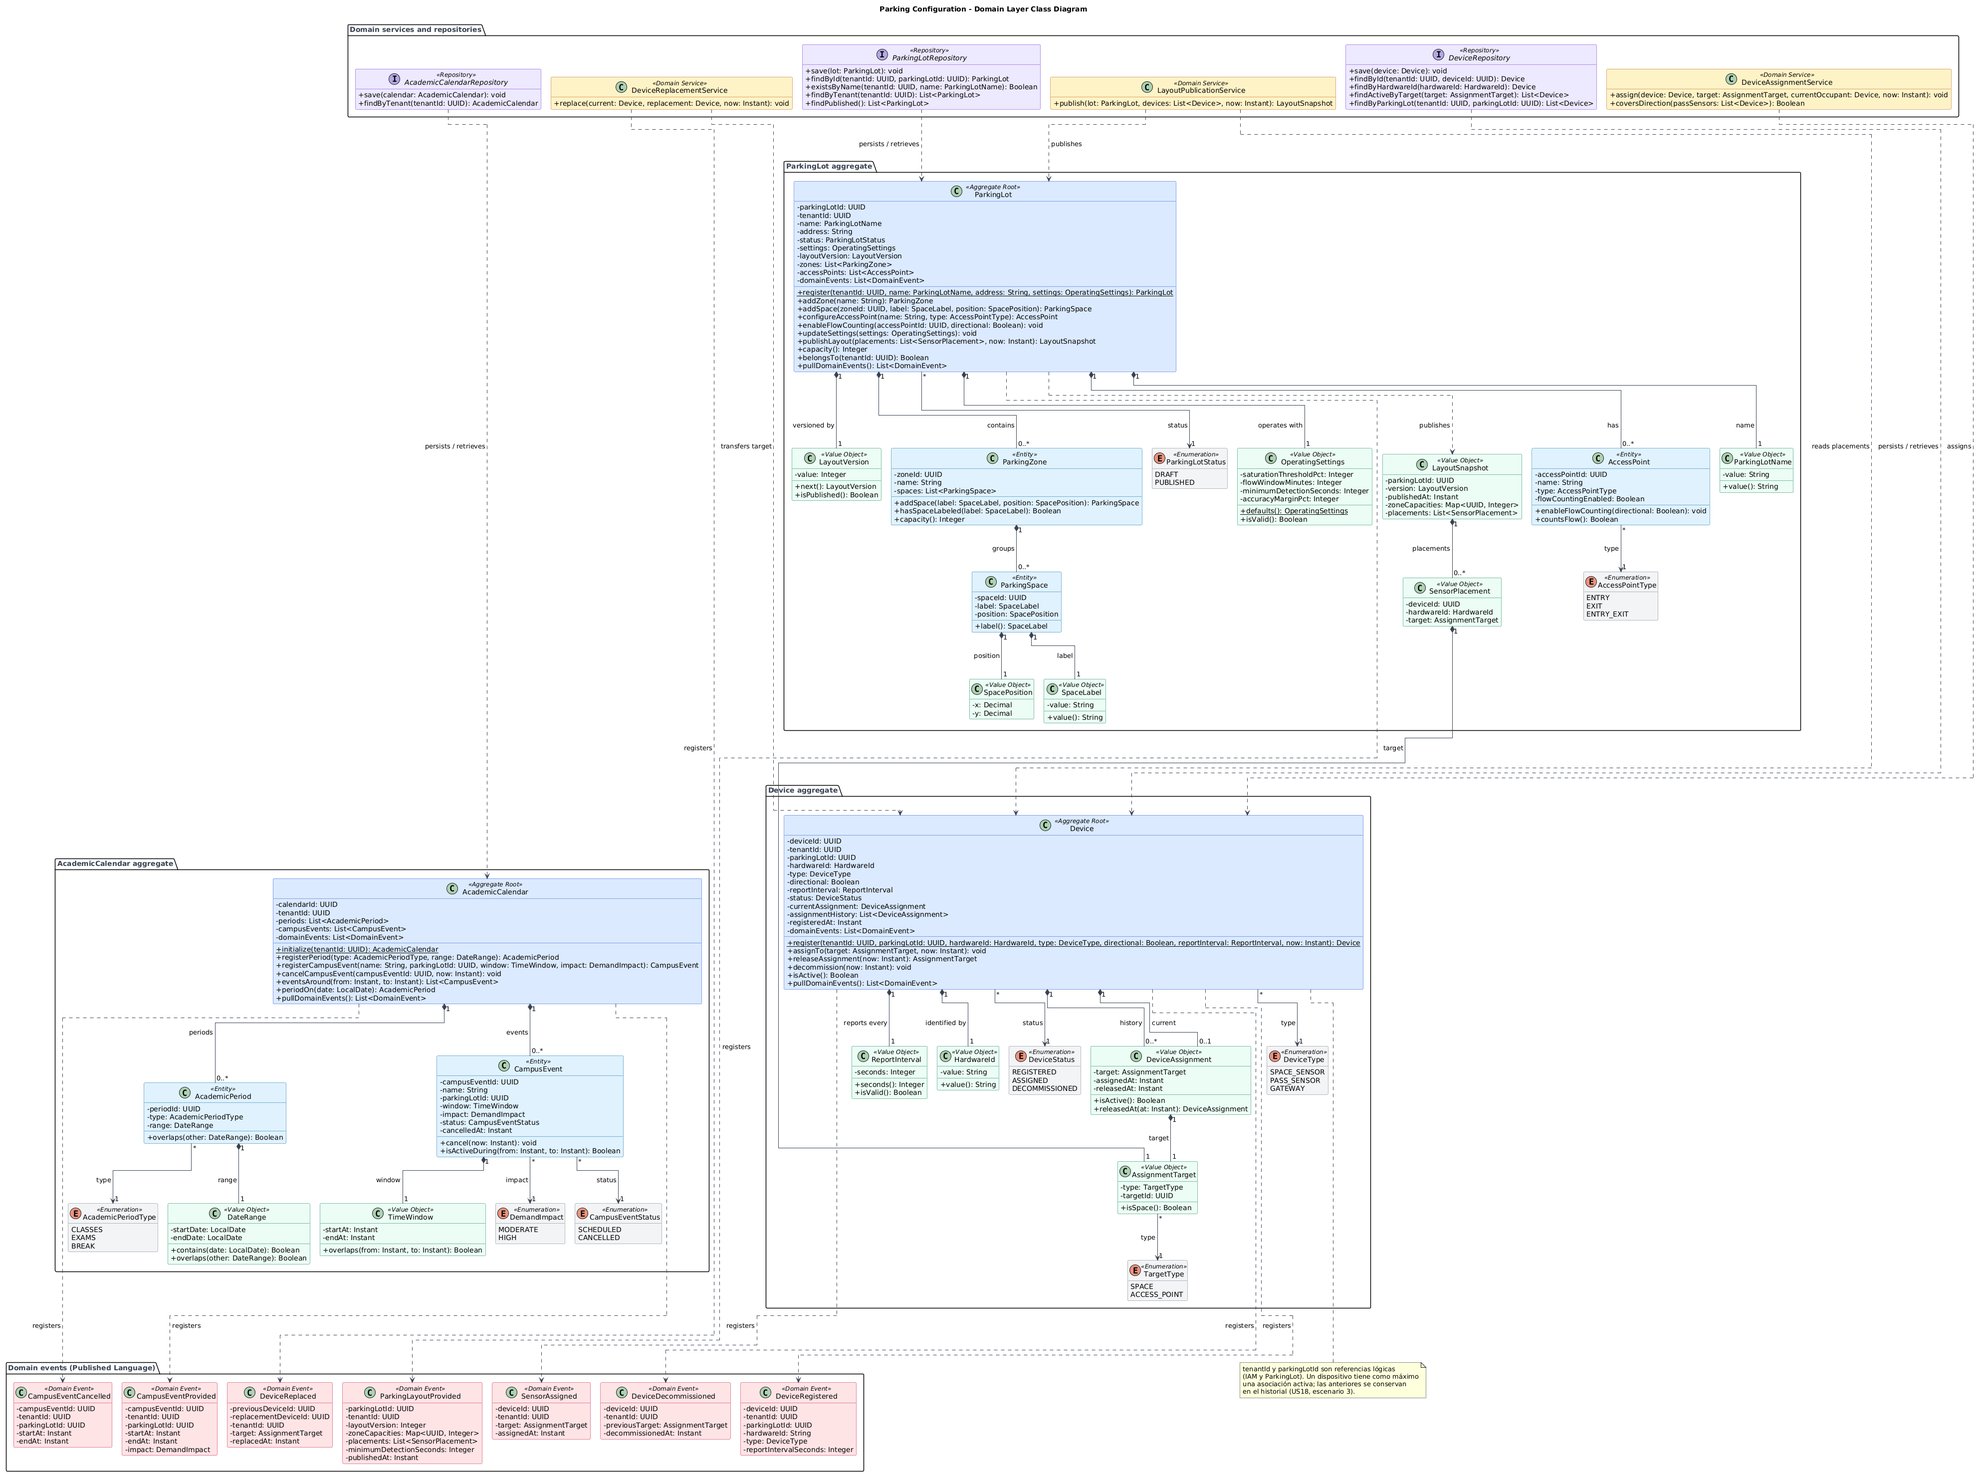
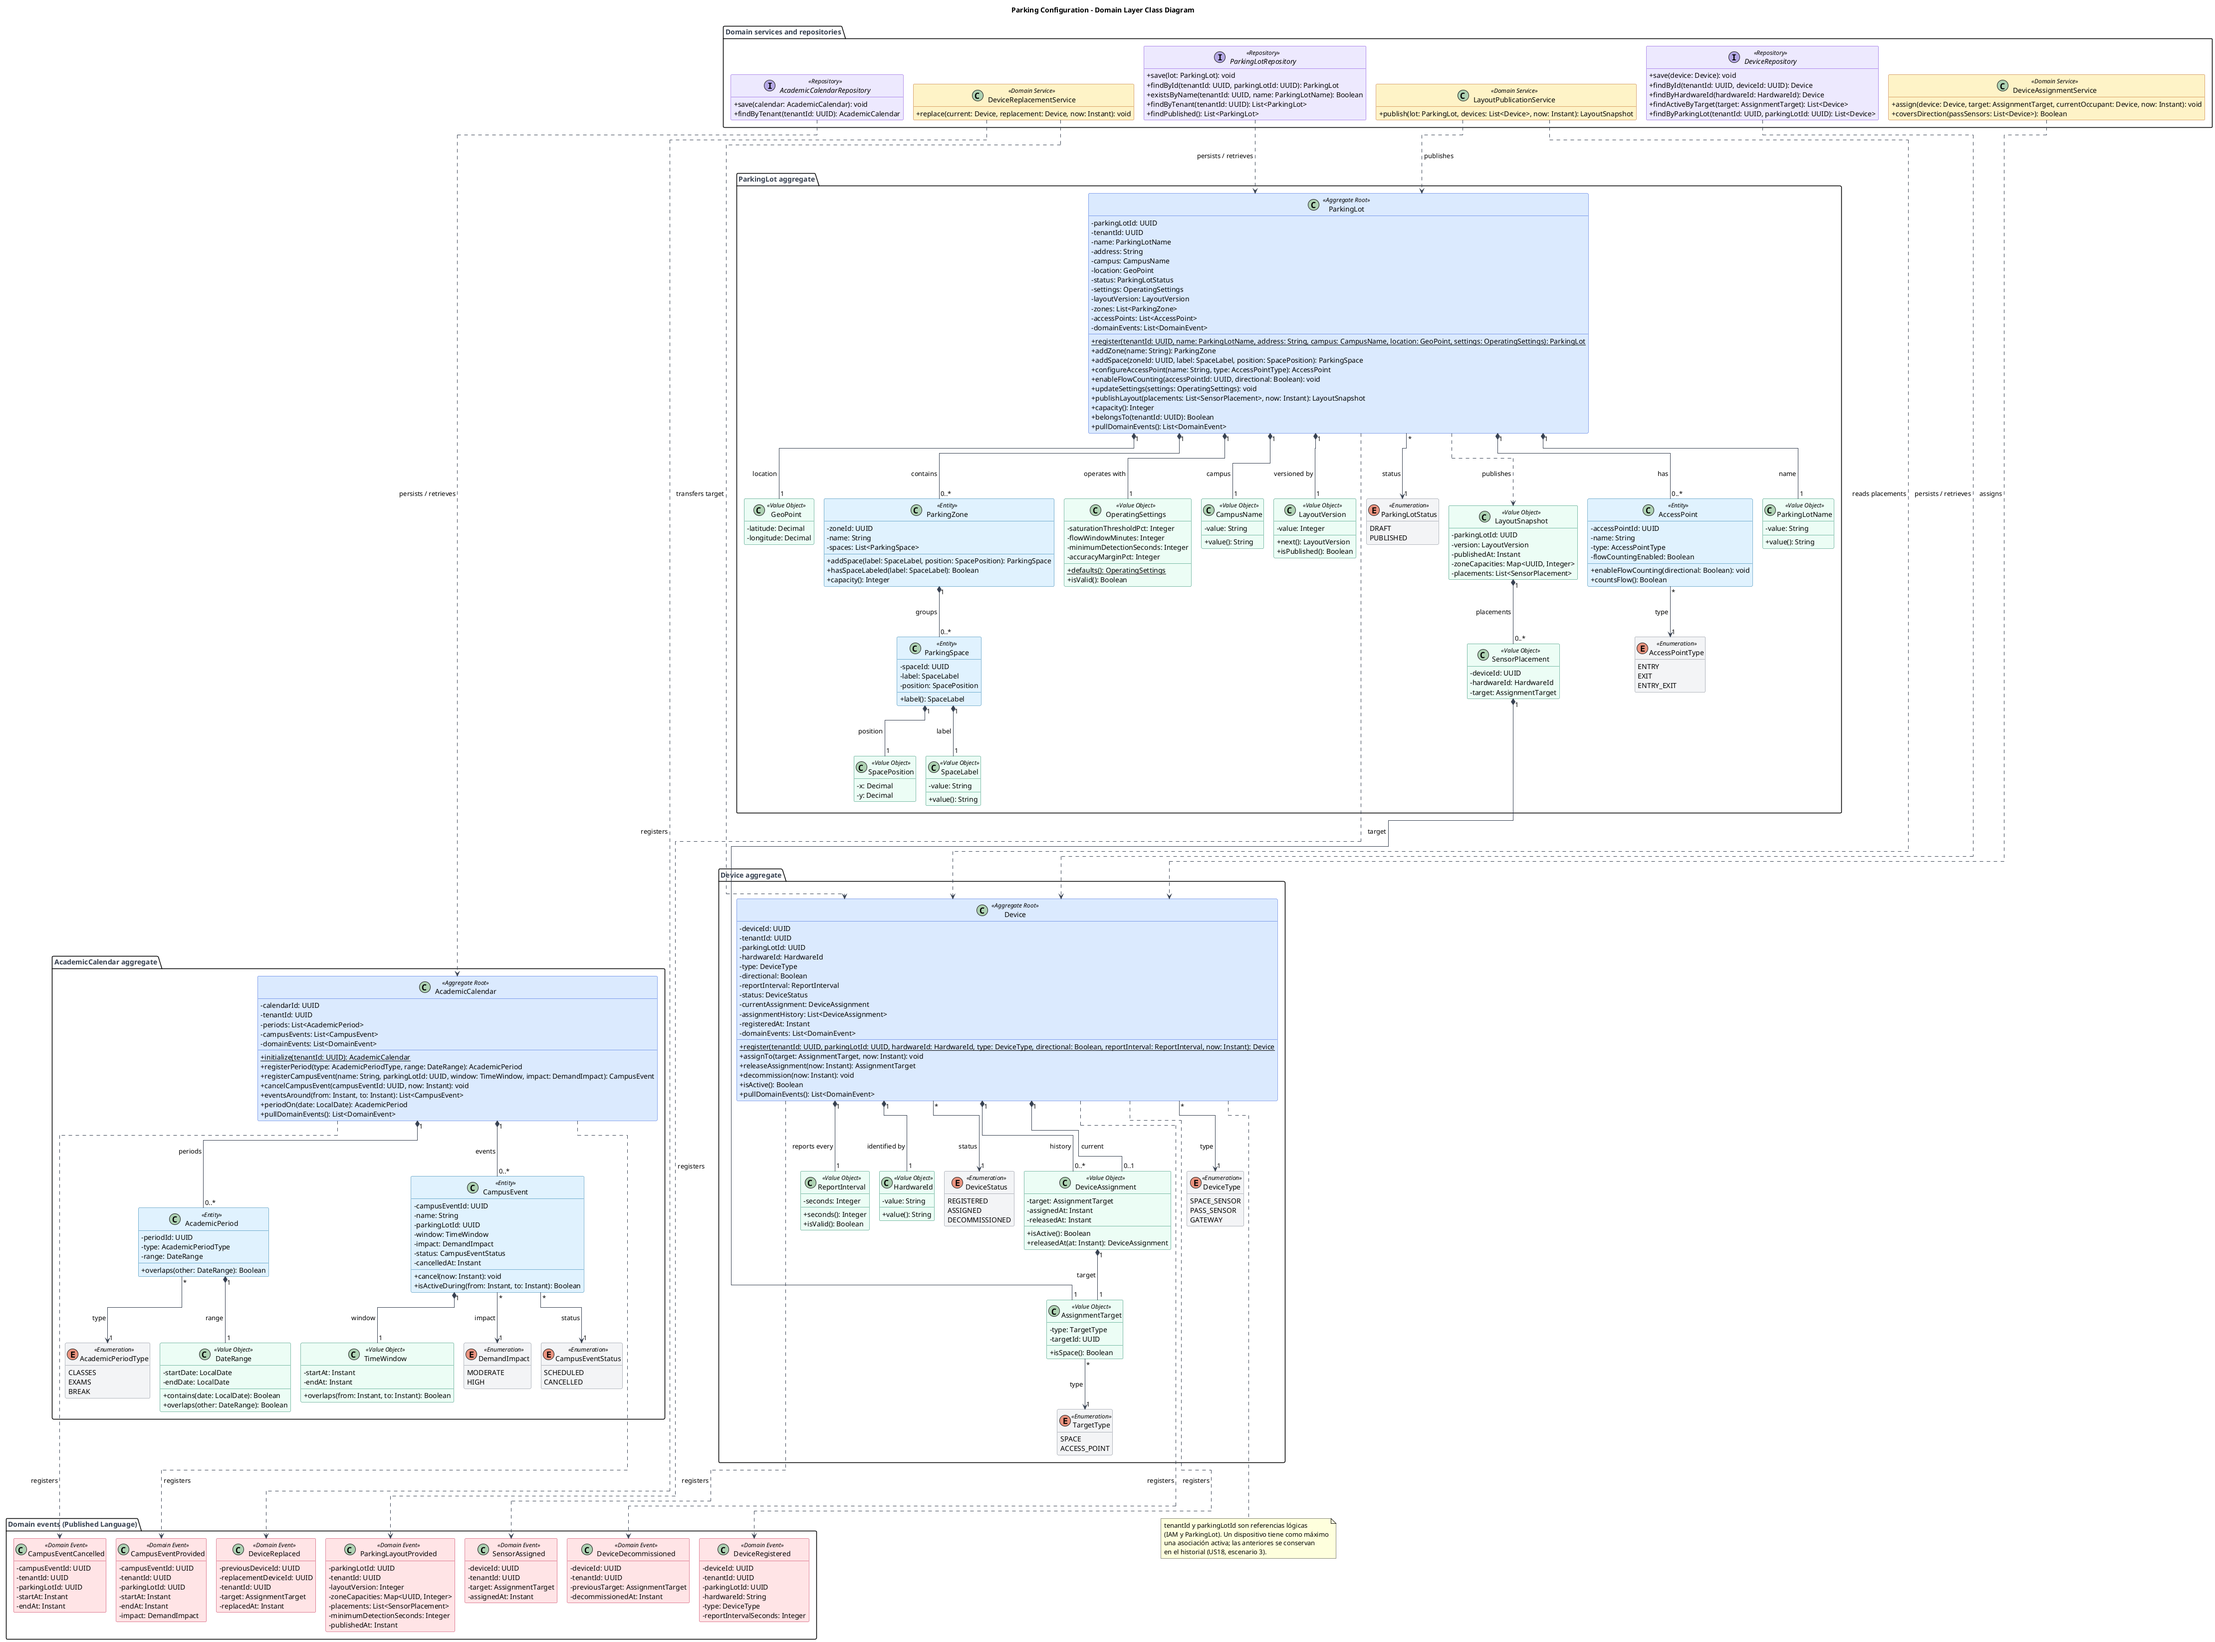
docs(chapter-05): add campus and location to parking lot

diff --git a/README.md b/README.md
@@ -4107,7 +4107,7 @@ La siguiente tabla resume las clases e interfaces principales de Parking Configu
 
 | Class / Interface | Layer | Purpose | Main attributes | Main operations |
 |---|---|---|---|---|
-| ParkingLot | Domain | Aggregate Root. Estacionamiento de una institución con sus zonas, espacios, accesos y parámetros de operación. | parkingLotId, tenantId, name, address, status, settings, layoutVersion, zones, accessPoints | register(), addZone(), addSpace(), configureAccessPoint(), enableFlowCounting(), updateSettings(), publishLayout(), capacity() |
+| ParkingLot | Domain | Aggregate Root. Estacionamiento de una institución con sus zonas, espacios, accesos y parámetros de operación. | parkingLotId, tenantId, name, address, campus, location, status, settings, layoutVersion, zones, accessPoints | register(), addZone(), addSpace(), configureAccessPoint(), enableFlowCounting(), updateSettings(), publishLayout(), capacity() |
 | ParkingZone | Domain | Entity. Sector, nivel o bloque que agrupa espacios. | zoneId, name, spaces | addSpace(), hasSpaceLabeled(), capacity() |
 | ParkingSpace | Domain | Entity. Lugar individual para estacionar. | spaceId, label, position | label() |
 | AccessPoint | Domain | Entity. Entrada o salida vehicular con sensores de paso. | accessPointId, name, type, flowCountingEnabled | enableFlowCounting(), countsFlow() |
@@ -4156,6 +4156,8 @@ Attributes
 |tenantId|UUID|Private|Referencia externa a la institución propietaria (IAM).|
 |name|ParkingLotName|Private|Nombre del estacionamiento; único dentro de la institución.|
 |address|String|Private|Ubicación de referencia dentro del campus.|
+|campus|CampusName|Private|Sede de la institución a la que pertenece el estacionamiento (por ejemplo, "Monterrico"). Solo agrupa los estacionamientos en la interfaz; no tiene reglas propias.|
+|location|GeoPoint|Private|Latitud y longitud del ingreso vehicular. La app la usa para calcular en el dispositivo la duración del trayecto y para abrir la ruta en una app de navegación.|
 |status|ParkingLotStatus|Private|DRAFT mientras no tiene layout publicado; PUBLISHED después de la primera publicación.|
 |settings|OperatingSettings|Private|Umbral de saturación, ventana de flujo, tiempo mínimo de detección y margen de precisión.|
 |layoutVersion|LayoutVersion|Private|Última versión publicada del layout; 0 si aún no se publicó.|
@@ -4167,7 +4169,7 @@ Methods
 
 |Nombre|Tipo de retorno|Visibilidad|Descripción|
 |-|-|-|-|
-|register(tenantId: UUID, name: ParkingLotName, address: String, settings: OperatingSettings)|ParkingLot|Public (static)|Crea el estacionamiento en estado DRAFT con la versión 0.|
+|register(tenantId: UUID, name: ParkingLotName, address: String, campus: CampusName, location: GeoPoint, settings: OperatingSettings)|ParkingLot|Public (static)|Crea el estacionamiento en estado DRAFT con la versión 0.|
 |addZone(name: String)|ParkingZone|Public|Agrega una zona; el nombre no puede repetirse dentro del estacionamiento.|
 |addSpace(zoneId: UUID, label: SpaceLabel, position: SpacePosition)|ParkingSpace|Public|Registra un espacio en la zona; rechaza una etiqueta repetida en la misma zona (US17, escenario 3).|
 |configureAccessPoint(name: String, type: AccessPointType)|AccessPoint|Public|Registra un acceso vehicular asociado al estacionamiento (US19, escenario 1).|
@@ -4191,6 +4193,8 @@ Methods
 |Nombre|Categoría|Atributos|Descripción|
 |-|-|-|-|
 |ParkingLotName|Value Object|value: String|Entre 3 y 80 caracteres, sin espacios al inicio ni al final.|
+|CampusName|Value Object|value: String|Nombre de la sede, entre 2 y 60 caracteres. Los estacionamientos de una misma sede se muestran juntos.|
+|GeoPoint|Value Object|latitude: Decimal, longitude: Decimal|Coordenadas del ingreso vehicular; la latitud va de -90 a 90 y la longitud de -180 a 180.|
 |SpaceLabel|Value Object|value: String|Etiqueta visible del espacio (por ejemplo, "A01"), de 1 a 10 caracteres.|
 |SpacePosition|Value Object|x: Decimal, y: Decimal|Posición del espacio en el plano del estacionamiento que dibuja la aplicación.|
 |OperatingSettings|Value Object|saturationThresholdPct: Integer, flowWindowMinutes: Integer, minimumDetectionSeconds: Integer, accuracyMarginPct: Integer|Umbral de saturación entre 50 y 100 %; ventana de flujo entre 5 y 60 min; tiempo mínimo de detección entre 3 y 60 s; margen de precisión entre 1 y 30 puntos. `defaults()` entrega 90 %, 15 min, 10 s y 10 puntos.|
@@ -4342,7 +4346,7 @@ La Interface Layer expone las capacidades del contexto a la consola web de opera
 |Controller|Endpoint|Resultado|Origen|
 |-|-|-|-|
 |ParkingLotController|`POST /api/v1/parking-lots`|201 con el estacionamiento creado; 400 si faltan datos; 409 si el nombre ya existe en la institución|US16|
-|ParkingLotController|`GET /api/v1/parking-lots`|200 con los estacionamientos de la institución, su estado y su versión de layout; lista vacía si no hay ninguno|US04|
+|ParkingLotController|`GET /api/v1/parking-lots`|200 con los estacionamientos de la institución, su sede, su ubicación, su estado y su versión de layout; lista vacía si no hay ninguno|US04|
 |ParkingLotController|`PUT /api/v1/parking-lots/{lotId}/settings`|200 con los parámetros actualizados; 400 si un valor está fuera de rango|US16 (ruta propuesta)|
 |LayoutController|`POST /api/v1/parking-lots/{lotId}/zones`|201 con la zona creada; 409 si el nombre se repite|US17, escenario 1|
 |LayoutController|`POST /api/v1/parking-lots/{lotId}/zones/{zoneId}/spaces`|201 con el espacio; 409 si la etiqueta ya existe en la zona|US17, escenarios 2 y 3|
@@ -4408,7 +4412,7 @@ La Application Layer coordina los casos de uso: carga los agregados, invoca sus 
 
 |Command|Atributos|Command Handler|Dependencias|Historias|
 |-|-|-|-|-|
-|RegisterParkingLotCommand|tenantId, name, address, settings|RegisterParkingLotCommandHandler|ParkingLotRepository, ConfigurationEventPublisher|US16|
+|RegisterParkingLotCommand|tenantId, name, address, campus, location, settings|RegisterParkingLotCommandHandler|ParkingLotRepository, ConfigurationEventPublisher|US16|
 |UpdateOperatingSettingsCommand|tenantId, parkingLotId, settings|UpdateOperatingSettingsCommandHandler|ParkingLotRepository|US16|
 |AddZoneCommand|tenantId, parkingLotId, name|AddZoneCommandHandler|ParkingLotRepository|US17|
 |AddSpaceCommand|tenantId, parkingLotId, zoneId, label, position|AddSpaceCommandHandler|ParkingLotRepository|US17|
